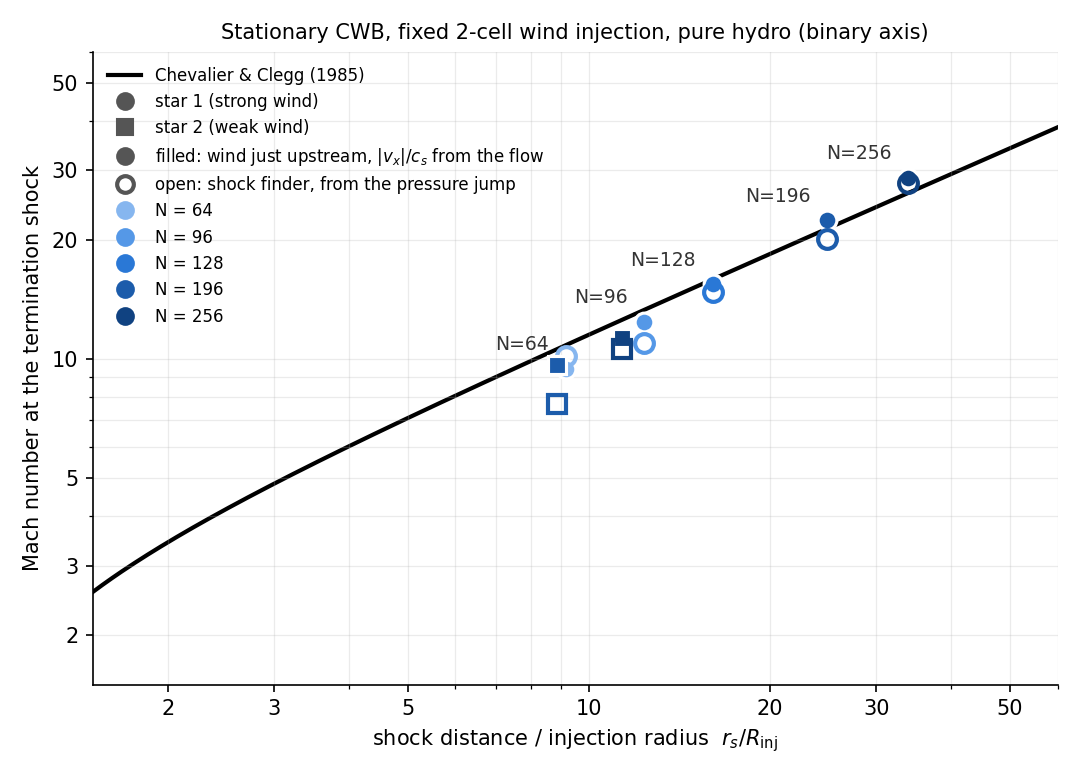
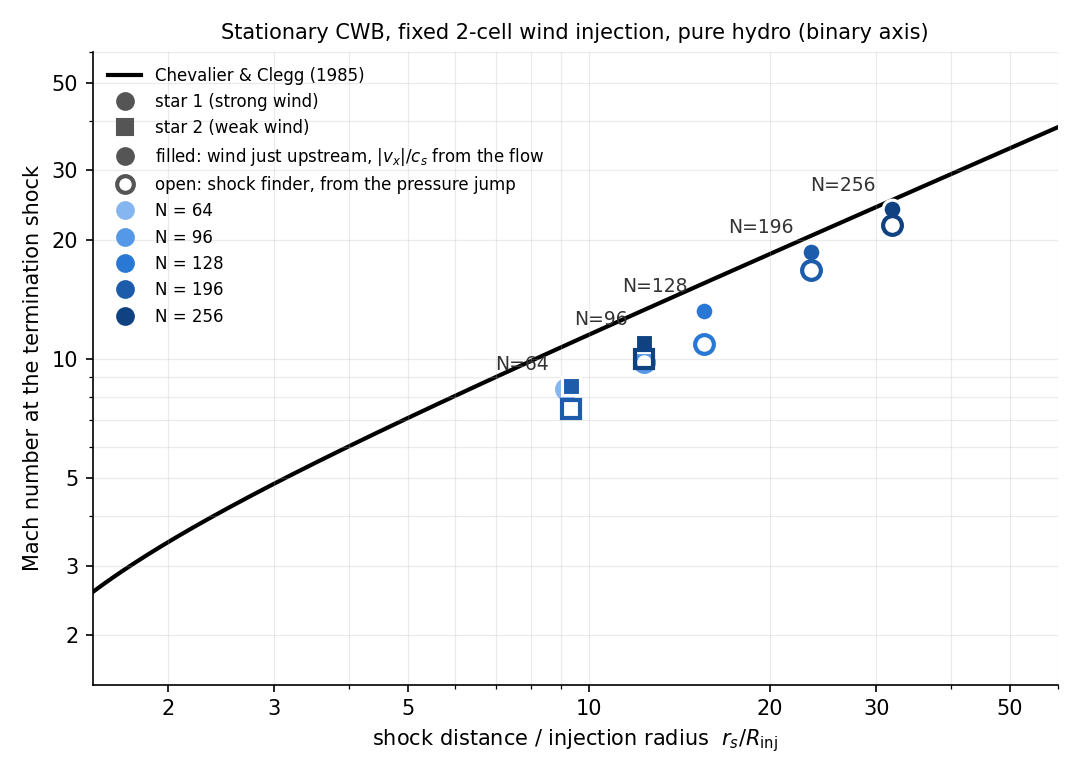
Add new figures for cosmic rays and shock finder analysis
- Added new PNG files for cosmic rays analysis in the clumpy medium scenario:
  - cr_snr_finder_mach_N128.png
  - cr_snr_projections_N128.png
  - cr_snr_radial_profiles_N128.png

- Updated existing figures for shock finder analysis with new data:
  - cwb_mach_vs_distance_ninj2.png
  - cwb_shocked_cells_2d_ninj2_128.png
  - cwb_shocked_cells_2d_ninj2_196.png
  - cwb_shocked_cells_2d_ninj2_256.png
  - cwb_shocked_cells_2d_ninj2_64.png
  - cwb_shocked_cells_2d_ninj2_96.png
  - cwb_shocked_cells_3d_ninj2_128.png
  - cwb_shocked_cells_3d_ninj2_196.png
  - cwb_shocked_cells_3d_ninj2_256.png
  - cwb_shocked_cells_3d_ninj2_64.png
  - cwb_shocked_cells_3d_ninj2_96.png

Changed region(s): [[0.6722, 0.1846, 0.8556, 0.3692], [0.4583, 0.3692, 0.6111, 0.5538], [0.5806, 0.3077, 0.6722, 0.4615]]

diff --git a/pytests/cosmic_rays_grey/cr_shock_tube_injection.py b/pytests/cosmic_rays_grey/cr_shock_tube_injection.py
@@ -15,11 +15,14 @@ the sampled profile. Two versions of the code's convention (``inject_crs_at_shoc
 is ``zeta`` times the finder's gas-only RH dissipated flux at the finder's Mach number):
 
 - *true Mach number* ``v_1 / c_1``: what the injection is meant to do;
-- *the finder's Mach number* (``FINDER_MACH``): the injected CRs change the shock the finder
-  samples, so the code converges to the fixed point ``zeta x f(M_finder(zeta))``. Since
-  2026-10-19 (DB4) DSA's finder reads the **velocity** jump, which the extra compression of a
-  CR-loaded shock raises (``mach="velocity"``); until then the **gas-pressure** jump, which the
-  CR pressure lowers (``mach="gas_pressure"``).
+- *the finder's Mach number*: the injected CRs change the shock the finder samples, so the code
+  converges to the fixed point ``zeta x f(M_finder(zeta))``. Since 2026-10-27 (DB8,
+  ``dsa_mach_cr_aware``, default on) DSA inverts the finder's velocity jump with the CR-loaded
+  Hugoniot, which recovers the true Mach number of a resolved planar shock: DSA's fixed point is
+  the true-Mach reference (``DSA_MACH = "true"``). Before, the gas-only reading
+  (``FINDER_MACH``): since 2026-10-19 (DB4) of the **velocity** jump, which the extra compression
+  of a CR-loaded shock raises (``mach="velocity"``); until then of the **gas-pressure** jump, which
+  the CR pressure lowers (``mach="gas_pressure"``).
 
   ======  =======  ================  ==================  =========================  ============
   zeta    M true   M_u at vel. FP    M_p at gas-p. FP    P_cr,2 true / vel. / gas-p  inj./nominal
@@ -28,35 +31,35 @@ is ``zeta`` times the finder's gas-only RH dissipated flux at the finder's Mach 
   0.5     9.600    10.164            8.893               3.152 / 3.957 / 2.358      1.226 / 0.766
   ======  =======  ================  ==================  =========================  ============
 
-**Results (2026-10-20, GPU, default scheme = HLLC + hybrid CR entropy, adaptive sampling with the
-spread deposit, velocity-jump Mach number).** ``zeta = 0.1``, against the velocity fixed point,
-constant for N = 400-3200: shock speed within 5e-4, ``P_th`` -0.15%, density +0.1%, finder Mach
-number -0.4% to -0.7%, L1 density order 0.89, and ``P_cr`` **+2.6%** (box CR energy +2.5%):
-injection inside the smeared shock, where the gas is still being compressed, so the injected CRs
-gain adiabatic energy the exact solution does not have (the deposit-location bias of Dubois et
-al. 2019; not resolution-dependent). Against the true Mach number ``P_cr`` +6.6%, rate +6.3%.
+**Results (2026-10-28, GPU, default scheme = HLLC + hybrid CR entropy, adaptive sampling with the
+spread deposit, CR-aware velocity-jump Mach number).** ``zeta = 0.1``, against the true-Mach
+reference, constant for N = 400-3200: shock speed within 5e-4, ``P_th`` -0.14%, density +0.09%,
+finder (gas-only) Mach number -0.4% to -0.6% of the reference's gas-only reading, L1 density order
+0.88, and ``P_cr`` **+2.5 to +2.7%** (box CR energy +2.5%): injection inside the smeared shock,
+where the gas is still being compressed, so the injected CRs gain adiabatic energy the exact
+solution does not have (the deposit-location bias of Dubois et al. 2019; not
+resolution-dependent).
 
-``zeta = 0.5`` does not reach the velocity fixed point: ``P_cr`` -14%, ``P_th`` +7.4%, shock
-+0.6%, finder Mach number -3% to -6%, L1 order 0.38; the run lies between the two references
-(against the true Mach number ``P_cr`` +8%, rate +6.2%). In the smeared CR-loaded shock the
-sampled velocity jump is smaller than the exact post-shock one. With the gas-pressure Mach number
-(until 2026-10-19) the runs sat at that fixed point for both ``zeta`` (``P_cr`` +2.7%; against the
-true Mach number -2.7% / **-23%**; DB8, accepted 2026-10-14).
+``zeta = 0.5``: ``P_cr`` -1.7 to -2.0%, ``P_th`` +0.7%, shock +0.05%, rate -1.3 to -1.5%, L1 order
+0.77 (tracked). Before DB8 (gas-only velocity Mach): ``P_cr`` +6.6% / +8% against the true Mach
+number at ``zeta`` = 0.1 / 0.5, and ``zeta = 0.5`` missed its own velocity fixed point (``P_cr``
+-14%, L1 order 0.38). With the gas-pressure Mach number (until 2026-10-19): -2.7% / **-23%**
+against the true Mach number (DB8, accepted 2026-10-14, reopened and decided 2026-10-27).
 
-Schemes (N = 400 / 1600, ``zeta`` = 0.1, ``P_cr`` vs the velocity fixed point): default +2.6%,
-energy scheme with HLLC +6.6%, with HLL +10.8%: the energy scheme adds the spurious CR shock
+Schemes (N = 400 / 1600, ``zeta`` = 0.1, ``P_cr`` vs true): default +2.7 / +2.6%, energy scheme
+with HLLC +6.7 / +6.6%, with HLL +10.6 / +10.7%: the energy scheme adds the spurious CR shock
 heating of Phase A (A6.1-A6.3) on top. Surface-cell deposit (``dsa_adaptive_shock_sampling =
-False``, gas-pressure Mach number from the 1-cell sampler): ``P_cr`` -52% (tracked; not the
-default since 2026-09-26).
-Density-consistent deposit (``dsa_density_consistent_deposit``, opt-in since 2026-10-21, DB9 = b):
-``P_cr`` -0.86 / -0.83% at ``zeta`` = 0.1 (the +2.6% deposit excess removed; +3.0% against the true
-Mach number), -17% at ``zeta`` = 0.5 (tracked).
+False``, gas-pressure Mach number from the 1-cell sampler, no CR-aware inversion): ``P_cr`` -50%
+(tracked; not the default since 2026-09-26).
+Density-consistent deposit (``dsa_density_consistent_deposit``, opt-in since 2026-10-21, DB9 = b;
+``rho_RH`` from the finder's gas-only Mach number): ``P_cr`` -0.9 / -0.8% at ``zeta`` = 0.1 (the
++2.6% deposit excess removed), -6.0% at ``zeta`` = 0.5 (tracked).
 
-Gates: hard on the default scheme at N >= 400 against the fixed point of the finder's Mach number
-(bounds in the ``test_cr_shock_tube_injection`` signature): they check the injection mechanics
-given that Mach number. They apply to ``zeta = 0.1`` only (``GATED_ZETAS``); ``zeta = 0.5`` misses
-the velocity fixed point (above) and is tracked only (user decision 2026-10-20: realistic
-efficiencies stay <= 0.21, and KR13 at 0.21 passes in B8.1). Everything at ``zeta = 0.5``, against
+Gates: hard on the default scheme at N >= 400 against the fixed point of DSA's Mach number
+(``DSA_MACH``, the true one since DB8; bounds in the ``test_cr_shock_tube_injection`` signature).
+They apply to ``zeta = 0.1`` only (``GATED_ZETAS``); ``zeta = 0.5`` is tracked only (user decision
+2026-10-20, when it missed the velocity fixed point: realistic efficiencies stay <= 0.21, and KR13
+at 0.21 passes in B8.1). Everything at ``zeta = 0.5``, against
 the true-Mach reference, the other schemes, the surface deposit and the CR tube (``X_cr = 2 | 1``, App. C; B8.5) is tracked in
 ``baselines.json``. Runtime ~20 min on one 2080 Ti. Raw profiles:
 ``/export/scratch/nknoell/phaseB/b7_4/``.

diff --git a/pytests/cosmic_rays_grey/cr_dsa_efficiency_planar.py b/pytests/cosmic_rays_grey/cr_dsa_efficiency_planar.py
@@ -16,45 +16,49 @@ the snapshot fit.
 **Reference.** ``pfrommer_riemann_solver.py`` with ``injection=ShockInjection(zeta(M),
 "gas_rh", mach, 1.3)`` (B7.4) solves the fixed point ``zeta = eta(M(zeta))`` together with the
 shock jump: ``mach="true"`` evaluates KR13 at the true Mach number (the intended
-``delta(M) eta_KR13(M)``), ``mach=FINDER_MACH`` at the Mach number the finder reads: since
-2026-10-19 (DB4) the velocity jump, which the extra compression of a CR-loaded shock raises;
-until then the gas-pressure jump, which the injected CRs lower (B7.4, finding Y11).
+``delta(M) eta_KR13(M)``), ``mach="velocity"`` / ``"gas_pressure"`` at the gas-only reading of the
+velocity / gas-pressure jump. Since 2026-10-27 (DB8, ``dsa_mach_cr_aware``) DSA inverts the
+velocity jump with the CR-loaded Hugoniot, which recovers the true Mach number of a resolved
+planar shock, so the hard gates compare with ``mach=DSA_MACH = "true"`` (the "fp" metrics now
+equal the "true" ones). Before: the gas-only velocity jump (since DB4, 2026-10-19), which the
+extra compression of a CR-loaded shock raises; until then the gas-pressure jump, which the
+injected CRs lower (B7.4, finding Y11). ``test_cr_aware_mach_exact`` checks the inversion on
+exact steady shocks with upstream CRs (``P_cr / P_th`` 0-2), no simulation: 5e-15.
 
-**Results (2026-10-20, GPU, velocity-jump Mach number and area weights).** N = 400 and 1600 agree
-to 1e-3, so the deviations are not truncation errors.
+**Results (2026-10-28, GPU, CR-aware velocity-jump Mach number and area weights).** N = 400 and
+1600 agree to 1e-3, so the deviations are not truncation errors.
 
-  ======  ==============  ==============  ===============================
-  M       KR13 vs vel.    KR13 vs true    constant vs vel. / true
-  ======  ==============  ==============  ===============================
-  1.8     no injection    (E_cr ~ 1e-10   -1.5% / +0.3%
-          (floor)         of E_th)
-  2       threshold: E_cr/E_th 1.7e-8     -0.6% / +1.5%
-  2.25    -5.2%           -5.1%           +0.1% / +2.5%
-  2.5     -3.2%           -3.0%           +0.6% / +3.3%
-  3       -1.6%           -1.2%           +1.2% / +4.3%
-  4       -1.0%           +1.5%           +1.8% / +5.3%
-  5       -3.4%           +7.3%           +2.1% / +5.8%
-  7       +1.4%           +9.3%           +2.4% / +6.2%
-  10      +1.9%           +10.6%          +2.5% / +6.4%
-  >= 15   +1.7 ... +2.3%  +11.0%          +2.6% / +6.5 ... +6.6%
-  ======  ==============  ==============  ===============================
+  ======  ==============  ===============================  ===============================
+  M       KR13 vs true    constant vs true                 before DB8, vs true: KR13 / const.
+  ======  ==============  ===============================  ===============================
+  1.8     none (floor)    -1.5%                            none / +0.3%
+  2       threshold       -0.6%                            threshold / +1.5%
+  2.25    -5.2%           +0.2%                            -5.1% / +2.5%
+  2.5     -3.2%           +0.6%                            -3.0% / +3.3%
+  3       -1.6%           +1.3%                            -1.2% / +4.3%
+  4       -0.9%           +1.9%                            +1.5% / +5.3%
+  5       -1.3%           +2.2%                            +7.3% / +5.8%
+  7       +1.5%           +2.4%                            +9.3% / +6.2%
+  10      +2.0%           +2.5%                            +10.6% / +6.4%
+  >= 15   +2.2 ... +2.3%  +2.6%                            +11.0% / +6.5 ... +6.6%
+  ======  ==============  ===============================  ===============================
 
-- Against the velocity fixed point: within 3.4% for M >= 3 (gate 5%) and -5.2% at M = 2.25
-  (gate 20%), the net of the deposit inside the smeared shock (+2.6%, B7.4) and the 1D finder's
-  Mach number slightly below the fixed point (on KR13's steep weak part, ``eta ~ M^5.3``, that
-  dominates).
-- Against the true Mach number: the velocity jump of a CR-loaded shock reads high (exact 1D: +2.6%
-  in M at KR13's strong-shock ``zeta = 0.211``), so KR13 is +11% at strong shocks and the constant
-  model +0.3% to +6.6% (with the gas-pressure Mach number until 2026-10-19: -9% and -1.2% to -2.9%).
+- Against the true Mach number (= DSA's fixed point): within 2.3% for M >= 3 (gate 5%) and -5.2%
+  at M = 2.25 (gate 20%). What remains is the deposit inside the smeared shock (+2.6%, B7.4) and,
+  on KR13's steep weak part (``eta ~ M^5.3``), the 1D finder's velocity jump reading slightly
+  low (gas-only M_finder 0.3-0.7% below the reference's gas-only reading).
+- Before DB8 the gas-only velocity jump of a CR-loaded shock read high (exact 1D: +2.6% in M at
+  KR13's strong-shock ``zeta = 0.211``): KR13 +11% at strong shocks, the constant model +0.3% to
+  +6.6% (with the gas-pressure Mach number until 2026-10-19: -9% and -1.2% to -2.9%).
 - Sub-critical (B8.7): KR13 injects nothing at M = 1.8 (``E_cr / E_th`` ~ 1e-10, the ``e_cr``
   floor). M = 2 is KR13's threshold (1.6e-4 at M = 2, 0 below): the finder reads a hair above 2 in
   some cells, ``E_cr / E_th`` = 1.7e-8, tracked only. The constant model injects at every M above
   ``dsa_mach_min = 1.3`` (DB5).
-- The shock speed matches the fixed point to 5e-4 everywhere.
+- The shock speed matches the reference to 5e-4 everywhere.
 
-Gates: hard at N = 1600 against the fixed point of the finder's Mach number (bounds in the
-``test_cr_dsa_efficiency_planar`` signature); the true-Mach ratios and the finder's Mach numbers
-are tracked in ``baselines.json``. Runtime ~25 min on one 2080 Ti (N = 1600 ~65 s per run).
+Gates: hard at N = 1600 against the exact solution at DSA's Mach number (``DSA_MACH``; bounds in
+the ``test_cr_dsa_efficiency_planar`` signature); the true-Mach ratios and the finder's gas-only
+Mach numbers are tracked in ``baselines.json``. Runtime ~25 min on one 2080 Ti (N = 1600 ~65 s per run).
 Raw values: ``/export/scratch/nknoell/phaseB/b8_1/b8_1.npz``.
 
 See ``PROGRESS_PHASEB.md`` in the module directory.

diff --git a/pytests/cosmic_rays_grey/cr_sedov_injection_rate.py b/pytests/cosmic_rays_grey/cr_sedov_injection_rate.py
@@ -581,7 +581,7 @@ def _plot(ref_ctrl, ref_dsa):
 
     titles = {
         "a": "(a) blast radius / reference\n(hydro: correct to 1-2%)",
-        "b": "(b) finder Mach / true Mach\n(velocity jump, DB4)",
+        "b": "(b) DSA Mach / true Mach\n(CR-aware velocity jump, DB8)",
         "c": "(c) finder dissipation / exact\n"
              "dotted: area $\\times$ Mach$^3$",
         "d": "(d) CR injection rate / reference\n"

diff --git a/astronomix/_modules/_cosmic_rays_grey/PROGRESS_PHASEB.md b/astronomix/_modules/_cosmic_rays_grey/PROGRESS_PHASEB.md
@@ -74,7 +74,7 @@ Status: `todo` / `running` / `done` / `blocked` / `dropped`.
 
 ## Log (newest first)
 
-### 2026-10-27: DB8 reopened + decided: CR-aware velocity-jump Mach number, default on (implemented; regression running; uncommitted)
+### 2026-10-27: DB8 reopened + decided: CR-aware velocity-jump Mach number, default on (implemented; regression passed; uncommitted)
 
 **Why reopened.** Since DB4 the finder inverts the normal-velocity jump with the gas-only Rankine-Hugoniot relation, `du / c_1 = 2 (M - 1/M) / (gamma + 1)`. The CRs injected at the shock compress the gas further, so `du` and with it the Mach number read high; CR-loaded upstream gas is stiffer and compresses less, so the Mach number reads low. Exact steady planar shocks (scratch `steady.py`, reference solver's `_hugoniot_rho_star` / `_post_shock_partition` with a root-find for the mass flux), injected / intended flux at the velocity fixed point, `X = P_cr,1 / P_th,1`:
 - X = 0: `zeta` 0.1 +2.4 to +3.9%, KR13 +2.6 to +8.6% (strong shocks), `zeta` 0.5 +14 to +23%.
@@ -112,7 +112,30 @@ Shock speed within 5e-4 everywhere (Pfrommer CR tube `zeta` 0.5: 1.7e-3). The re
 
 **Sedov (B7.2, `zeta` 0.1, gas-only -> CR-aware -> CR-aware + DB9 with the CR-aware `rho_RH`):** E_cr/E end / ref 0.951 -> 0.936 -> 0.828 (N 48), 0.982 -> 0.966 -> 0.882 (N 96); realized late injection / ref 0.755 -> 0.727 -> 0.562, 0.858 -> 0.828 -> 0.697; E_cr / kernel 1.11 -> 1.09, 1.08 -> 1.06. `zeta` 0.211: 0.965 -> 0.934, 0.992 -> 0.960. The old high reading hid ~3.5% of the under-resolution deficit (DB4/DB7, B7.3). 160^3 not run: the B7.2 setup (10 returned 3D snapshots) needs 11.2 GB in either version and no longer fits; the 2026-10-21 runs used a GPU (`GPU-97e5a2a9`) no longer in the machine.
 
-**Regression** (DSA tests only, update mode against a scratch copy of the registry, `/export/scratch/nknoell/phaseB/db8_impl/reg/`): running.
+**Regression** (DSA tests only: items 7, 8, 9, 10, 11, 15, 18, Phase D injection inference, gradient checks, B7.2-B7.4, B8.1, B8.2 at 64 without update; update mode against a scratch copy of the registry, `/export/scratch/nknoell/phaseB/db8_impl/reg/`, diff `diff_final.txt`). First pass: two failures, both tests that encoded the gas-only Mach number, fixed:
+- `cr_dsa_mach_dependence.py` formula cross-check recomputed the KR13 injection from the finder's gas-only Mach number (rel. err 7.3%). Now uses `cr_grey_injection.dsa_mach_and_flux` (new public helper: the Mach number and flux DSA uses; `inject_crs_at_shocks` calls it too). Cross-check error 1e-7 -> 0.6-2e-6 (float32 runs, tol 1e-5).
+- `cr_dsa_efficiency_planar.py` gated against the gas-only velocity fixed point (KR13 M 5 -11%). The hard-gate reference is now `DSA_MACH = "true"` (`cr_shock_tube_injection.py`; `FINDER_MACH` stays for the finder's gas-only reading), in B7.4 and B8.1. New `test_cr_aware_mach_exact`: inversion vs exact steady shocks, X 0-2, worst 5.3e-15.
+- `cr_sedov_injection_rate.py::_analyse` (B7.3, also B7.2's `inj_realized_over_nominal`) took the nominal rate and `M_finder` from the finder's gas-only output, so `dsa_cap_loss` read 0.036 (the Mach change); now from `dsa_mach_and_flux`: -3e-7.
+
+Second pass: every test passes. 473 of 943 registry values moved by > 0.5%, all in DSA tests; no keys added or removed. Main changes (N 48 / 96 / 160):
+
+| quantity | before | after |
+|---|---|---|
+| item 7 `E_cr/E` / self-similar | 0.515 / 0.672 / 0.740 | 0.496 / 0.648 / 0.714 |
+| B7.3 late injection / ref | 0.766 / 0.861 / 0.918 | 0.738 / 0.832 / 0.887 |
+| B7.3 Mach ratio (DSA's M / true) | 0.876 / 0.935 / 0.943 | 0.864 / 0.924 / 0.932 |
+| item 8 KR13 `E_cr/E` / self-similar | 0.569 / 0.734 / 0.804 | 0.529 / 0.683 / 0.749 |
+| item 8 CS14 / KR13 error w.r.t. 0.5 (hard 8%) | 1.6 / 2.7 / 3.2% | **5.2 / 6.3 / 6.8%** |
+| B7.2 z0.1 `E_cr/E` end / ref (48 / 96) | 0.951 / 0.982 | 0.936 / 0.966 |
+| B7.2 X_cr shell / ref, P_cr peak / ref (48 / 96) | 1.063 / 1.064, 0.779 / 0.859 | 1.033 / 1.032, 0.751 / 0.825 |
+| item 11 (128^3) `E_cr/E` uniform / clumpy, clumpy effect | 0.0924 / 0.0903, -2.24% | 0.0892 / 0.0872, -2.26% |
+| B7.4 `zeta` 0.1 `P_cr` vs DSA's fixed point (now true M) | +2.6% (vel. FP) | +2.5 ... +2.7% |
+| B7.4 `zeta` 0.5 `P_cr`, L1 order | -14% (vel. FP), 0.38 | -1.7 ... -2.0%, 0.77 |
+| B8.1 KR13 / constant vs DSA's fixed point, M >= 3 | within 3.4% / +1.2 ... +2.6% | -1.6 ... +2.3% / +1.3 ... +2.6% |
+
+- The CS14 / KR13 ratio moves towards its 8% bound: with the CR-aware inversion the injected Mach number depends on the efficiency itself, and KR13's larger correction (it injects twice as much) lowers it more than CS14's, so the ratio is no longer exactly the efficiency ratio. Physics, not a bug; watch item (Y6).
+- 160^3 B7.2 not run (no longer fits 11 GB, see above). Item 9 (`cr_modified_shock_structure.py`) and the gradient / energy-budget / Phase D tests: within 0.5%.
+- Registry not merged yet (awaiting the user).
 
 **Not covered:** the CWB (`pytests/shock_finder3D`, tracked +41% split) and M7 runs use DSA too; their tracked numbers move with this default and were not rerun.
 
